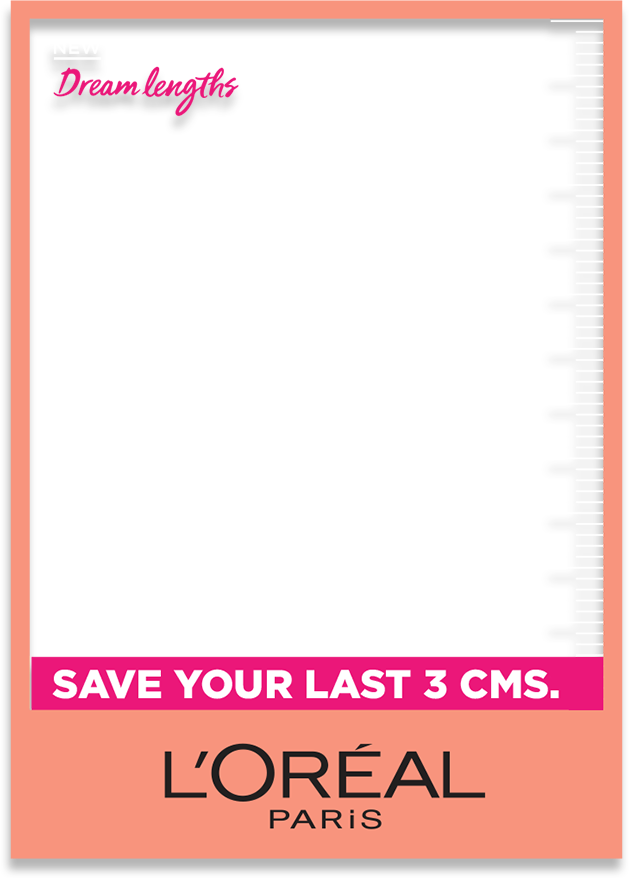
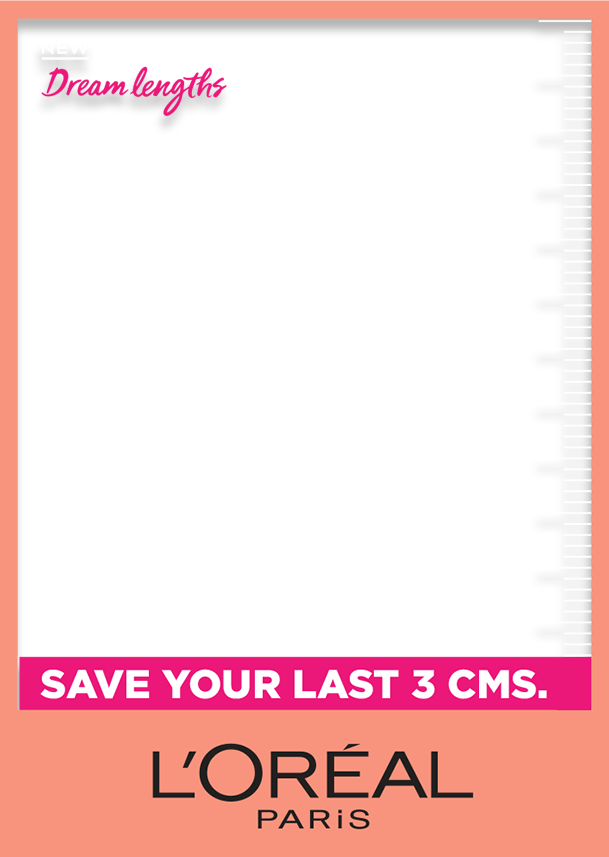
minor changes

Changed region(s): [[0.0, 0.0, 1.0, 1.0]]

diff --git a/src/components/CameraBooth.jsx b/src/components/CameraBooth.jsx
@@ -3,6 +3,7 @@ import '../App.css';
 import Webcam from 'react-webcam';
 import Button from './Button';
 import Notification from './Notification';
+import html2canvas from 'html2canvas';
 
 function CameraBooth() {
     const imageRef = useRef(null)
@@ -12,34 +13,40 @@ function CameraBooth() {
     const [success, setSuccess] = useState(false);
     const [message, setMessage] = useState('')
 
-    const handleCapture = () => {
+    const handleCapture =async () => {
         const currentImg = imageRef.current.getScreenshot();
         setCurrentImage(currentImg);
         console.log(currentImg)
+        const canvas = await html2canvas(canvasRef.current,{
+            useCORS:true,
+            scale:1,
+        })
+        const imageSrc = canvas.toDataURL('image/png')
+        setCaptureImage(imageSrc)
         // setCaptureImage(imageSrc);
 
         // setSuccess(true);
         // setMessage('Image Captured')
-        const webcamWindow = imageRef.current.video;
-        const canvas = canvasRef.current;
-        const context = canvas.getContext('2d');
+        // const webcamWindow = imageRef.current.video;
+        // const canvas = canvasRef.current;
+        // const context = canvas.getContext('2d');
 
-        canvas.width=webcamWindow.videoWidth-60;
-        canvas.height=webcamWindow.videoWidth;
-        console.log(canvas.width,canvas.height);
-        //draw image
-        context.drawImage(webcamWindow,0,0,canvas.width,canvas.height)
-        //canvas working
-        const frameImage = new Image();
-        frameImage.src='./images/frame.png';
+        // canvas.width=webcamWindow.videoWidth-60;
+        // canvas.height=webcamWindow.videoWidth;
+        // console.log(canvas.width,canvas.height);
+        // //draw image
+        // context.drawImage(webcamWindow,0,0,canvas.width,canvas.height)
+        // //canvas working
+        // const frameImage = new Image();
+        // frameImage.src='./images/frame.png';
         
-        frameImage.onload=()=>{
-            context.drawImage(frameImage,5,5,canvas.width,canvas.height)
-            const imageSrc= canvas.toDataURL('image/png');
+        // frameImage.onload=()=>{
+        //     context.drawImage(frameImage,0,0,canvas.width,canvas.height)
+        //     const imageSrc= canvas.toDataURL('image/png');
             
-            console.log('image capture')
-            setCaptureImage(imageSrc)
-        }
+        //     console.log('image capture')
+        //     setCaptureImage(imageSrc)
+        // }
     }
     useEffect(() => {
         setTimeout(() => {
@@ -104,7 +111,7 @@ function CameraBooth() {
                     <div className="home-button">
                 <button><i class="fa fa-home"></i> home</button>
                 </div>
-                <div className="web-cam-container">
+                <div className="web-cam-container" ref={canvasRef}>
                     <div className="web-cam-outer">
                         {currentImage ? <img src={currentImage} className='webcam' /> : <Webcam
                             audio={false}
@@ -114,8 +121,8 @@ function CameraBooth() {
                             className='webcam' />}
                     </div>
                     <img src="./images/frame.png" className='overlay-img' alt="" />
+               {/* <canvas ref={canvasRef} style={{display:'none'}}></canvas> */}
                 </div>
-                <canvas ref={canvasRef} style={{display:'none'}}></canvas>
             </div>
             <div className="side-img">
                 <img src="./images/right-img.png" alt="" />

diff --git a/src/App.css b/src/App.css
@@ -127,7 +127,7 @@ body{
   display: flex;
   justify-content: center;
   align-items: center;
-  padding: 10px;
+  padding: 0px;
   overflow: hidden;
   /* background-color: red; */
   /* border: 2px solid red; */
@@ -137,7 +137,7 @@ body{
   top: 0;
   left: 0;
   width: 95%;
-  height: 97%;
+  height: 98%;
   overflow: hidden;
   /* border: 2px solid red; */
   padding: 0;
@@ -151,17 +151,18 @@ body{
 .overlay-img{
   position: absolute;
   width: 100%;
-  height: 104%;
+  height: 100%;
   top: 0;
   /* height: 500px; */
   z-index: 999;
 }
 .overlay-img img{
   width: 100%;
+  box-shadow: none;
 }
 
 .webcam{
-width: 100%;
+width: 102%;
 height: 104%;
 object-fit: cover;
 z-index: 22;
@@ -250,14 +251,14 @@ z-index: 22;
   font-size: 1.2vw;
 }
 
-@media screen and (max-width:700px) {
+@media screen and (max-width:1300px) {
   .image-frame{
     width: 28vw;
     height: 30vw;
   }
   .webcam{
-    width: 110%;
-    height: 110%;
+    width: 120%;
+    height: 120%;
   }
   .home-button{
     top: -5vw;
